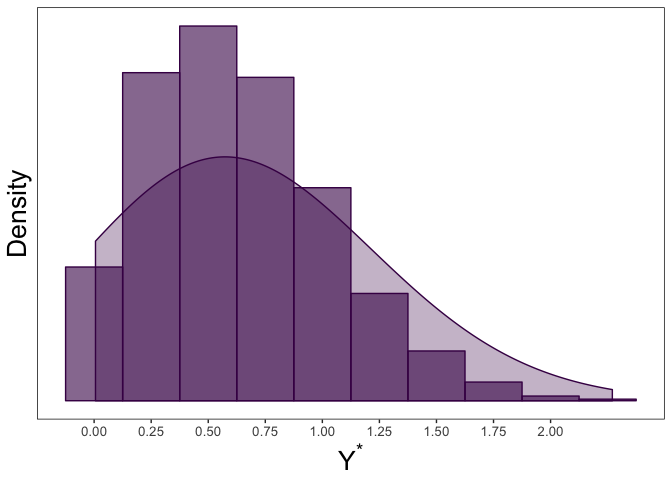
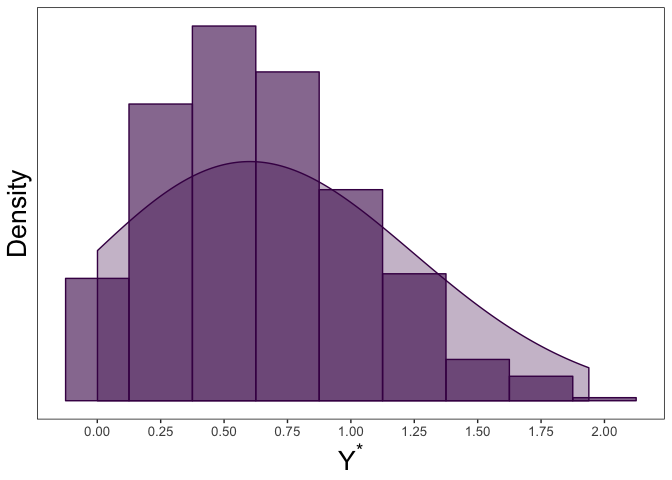
typo in the table variable for mu corrected

diff --git a/README.md b/README.md
@@ -24,7 +24,7 @@ y_star <- msm::rtnorm(n = 1000, mean = mu, sd = sigma, lower = a)
 range(y_star) #note that the lowerbound will always be non-negative
 ```
 
-    ## [1] 0.005998321 2.270648996
+    ## [1] 0.0007457189 1.9384400204
 
 Next, we can imagine a scenario where we have an imprecise measurement of *Y*<sup>\*</sup> leading to censoring. In our case we assume that values below *ν* are censored such that *a* &lt; *ν*. This creates the random variable *Y*, where
 
@@ -38,7 +38,7 @@ y <- ifelse(y_star<=nu, nu, y_star)
 sum(y==nu)/length(y) #calculating the number of censored observations
 ```
 
-    ## [1] 0.186
+    ## [1] 0.175
 
 ``` r
 dt <- data.frame(y_star, y) #collecting the uncensored and censored data together
@@ -59,22 +59,22 @@ tcensReg(y ~ 1, data = dt, a = 0, v = 0.25)
 
     ## $theta
     ##               Estimate
-    ## (Intercept)  0.4664344
-    ## log_sigma   -0.6713109
+    ## (Intercept)  0.5204241
+    ## log_sigma   -0.7143395
     ## 
     ## $iterations
     ## [1] 5
     ## 
     ## $initial_ll
-    ## [1] -677.3942
+    ## [1] -665.1048
     ## 
     ## $final_ll
-    ## [1] -660.4865
+    ## [1] -652.3394
     ## 
     ## $var_cov
-    ##              (Intercept)    log_sigma
-    ## (Intercept)  0.001022383 -0.001003465
-    ## log_sigma   -0.001003465  0.001714552
+    ##               (Intercept)     log_sigma
+    ## (Intercept)  0.0007312177 -0.0007343165
+    ## log_sigma   -0.0007343165  0.0014999973
 
 Note that the this will return parameter estimates, variance-covariance matrix, the number of iterations until convergence, and the initial/final log-likelihood values.
 
@@ -98,7 +98,7 @@ cens_est <- cens_output$theta
 cens_est[2] <- exp(cens_est[2])
 
 results_df <- data.frame(rbind(c(mu, sigma), t(tcensReg_est), lm_est, t(cens_est)))
-names(results_df) <- c("mu$", "sigma")
+names(results_df) <- c("mu", "sigma")
 row.names(results_df) <- c("Truth", "tcensReg", "Normal MLE", "Tobit")
 results_df$mu_bias <- abs(results_df$mu - mu)
 results_df$sigma_bias <- abs(results_df$sigma - sigma)
@@ -106,11 +106,11 @@ results_df$sigma_bias <- abs(results_df$sigma - sigma)
 knitr::kable(results_df, format = "markdown", digits = 4)
 ```
 
-|            |     mu$|   sigma|  mu\_bias|  sigma\_bias|
+|            |      mu|   sigma|  mu\_bias|  sigma\_bias|
 |:-----------|-------:|-------:|---------:|------------:|
 | Truth      |  0.5000|  0.5000|    0.0000|       0.0000|
-| tcensReg   |  0.4664|  0.5110|    0.0336|       0.0110|
-| Normal MLE |  0.6525|  0.3702|    0.1525|       0.1298|
-| Tobit      |  0.6067|  0.4369|    0.1067|       0.0631|
+| tcensReg   |  0.5204|  0.4895|    0.0204|       0.0105|
+| Normal MLE |  0.6704|  0.3681|    0.1704|       0.1319|
+| Tobit      |  0.6290|  0.4303|    0.1290|       0.0697|
 
 Other methods result in significant bias for both *μ* and *σ*.
